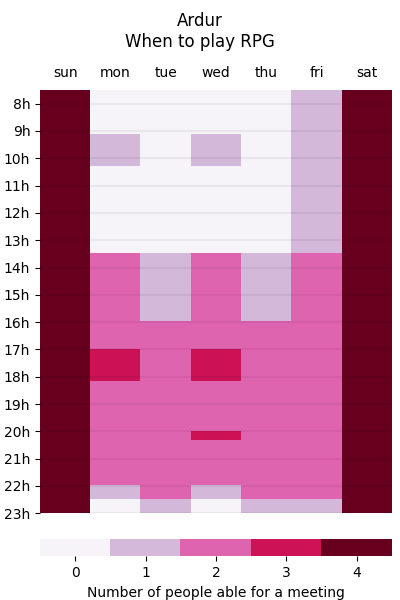
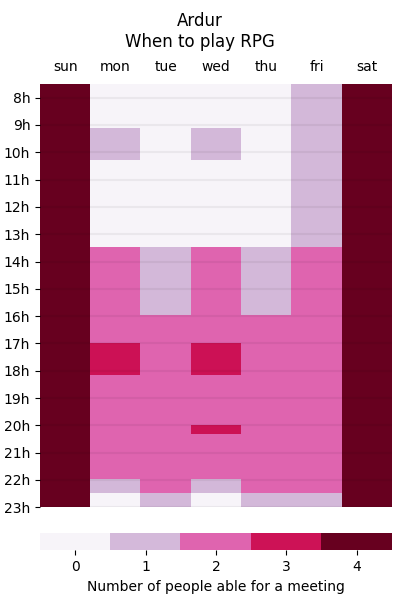
new images

diff --git a/easymeet/__init__.py b/easymeet/__init__.py
@@ -163,9 +163,9 @@ def plot_free_schedule(intervals,
 
     # creating axes
     if format24:
-        ax_dims = [.1,0,.88,.85]
+        ax_dims = [.1,.01,.88,.85]
     else:
-        ax_dims = [.15,0,.82,.85]
+        ax_dims = [.15,.01,.82,.85]
     ax = fig.add_axes(ax_dims)
     ax.set_title(ax_title, y=1.08)
 
